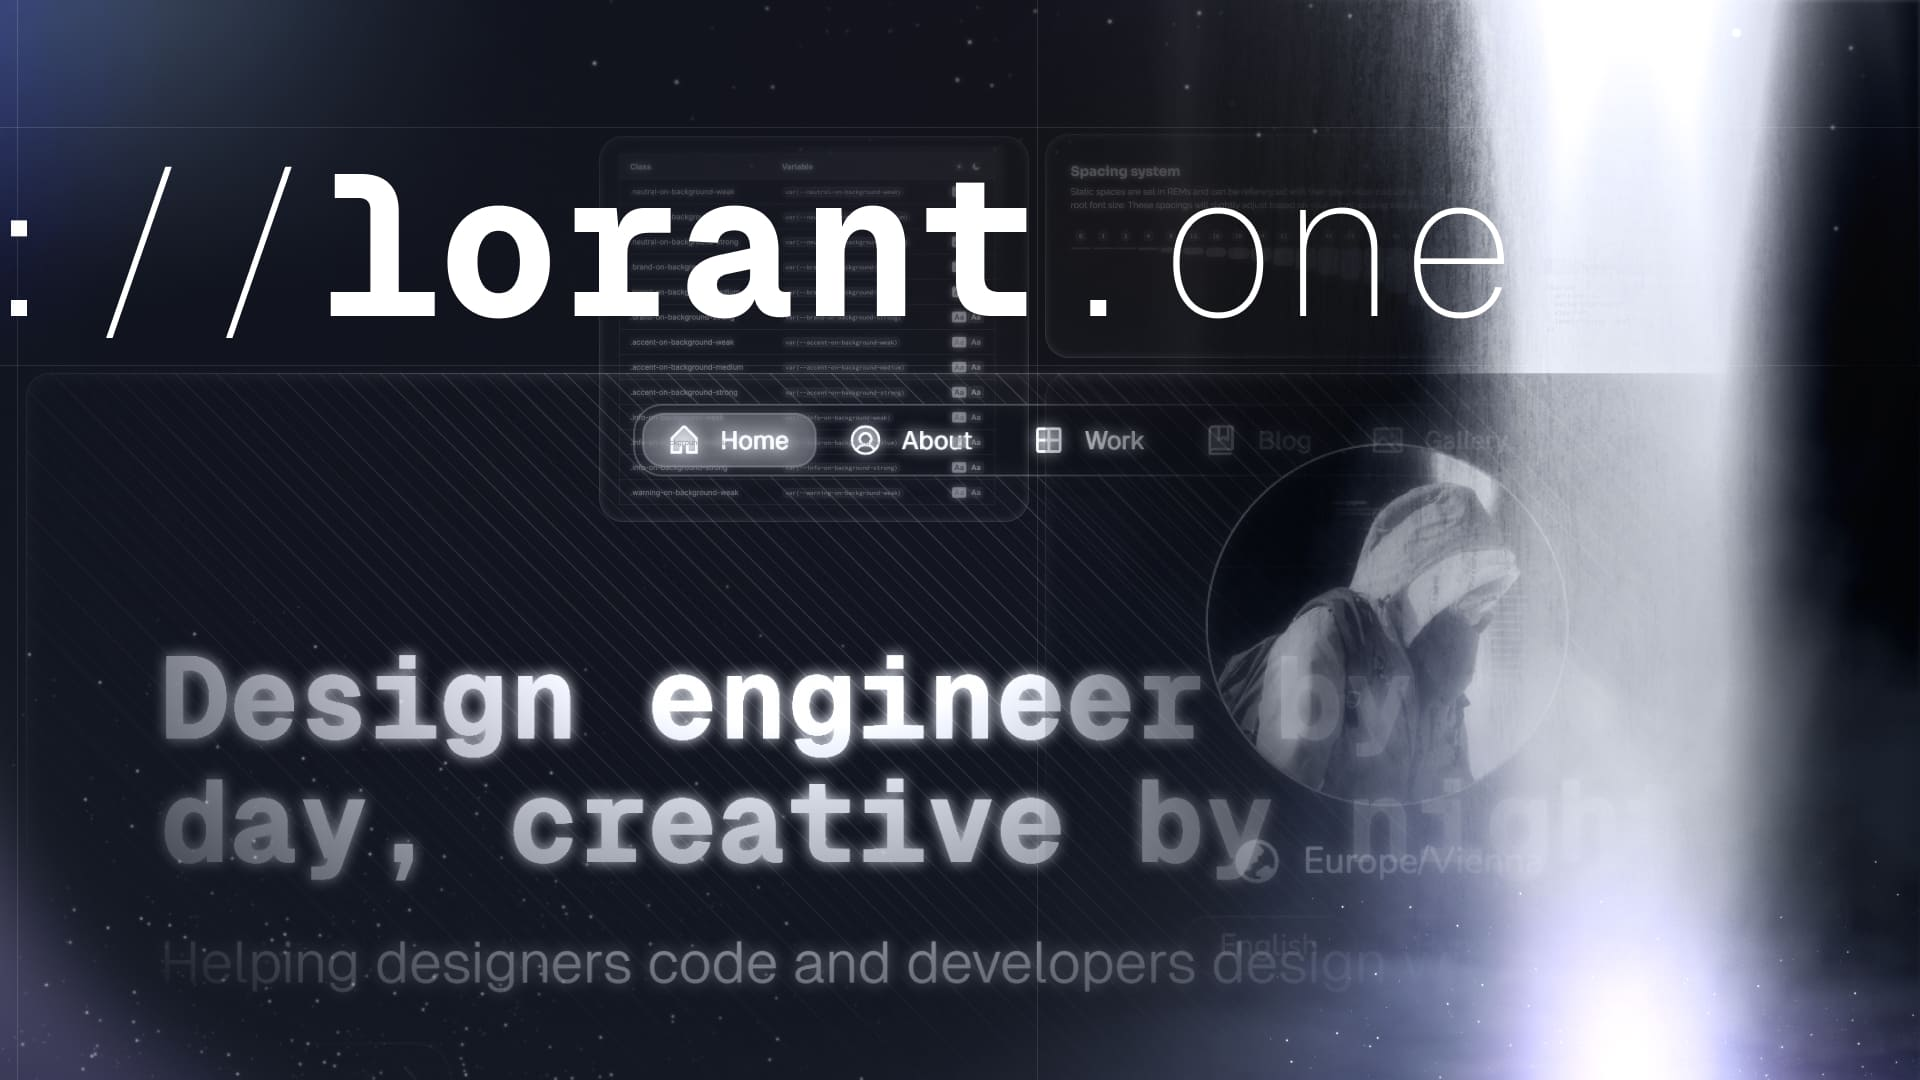
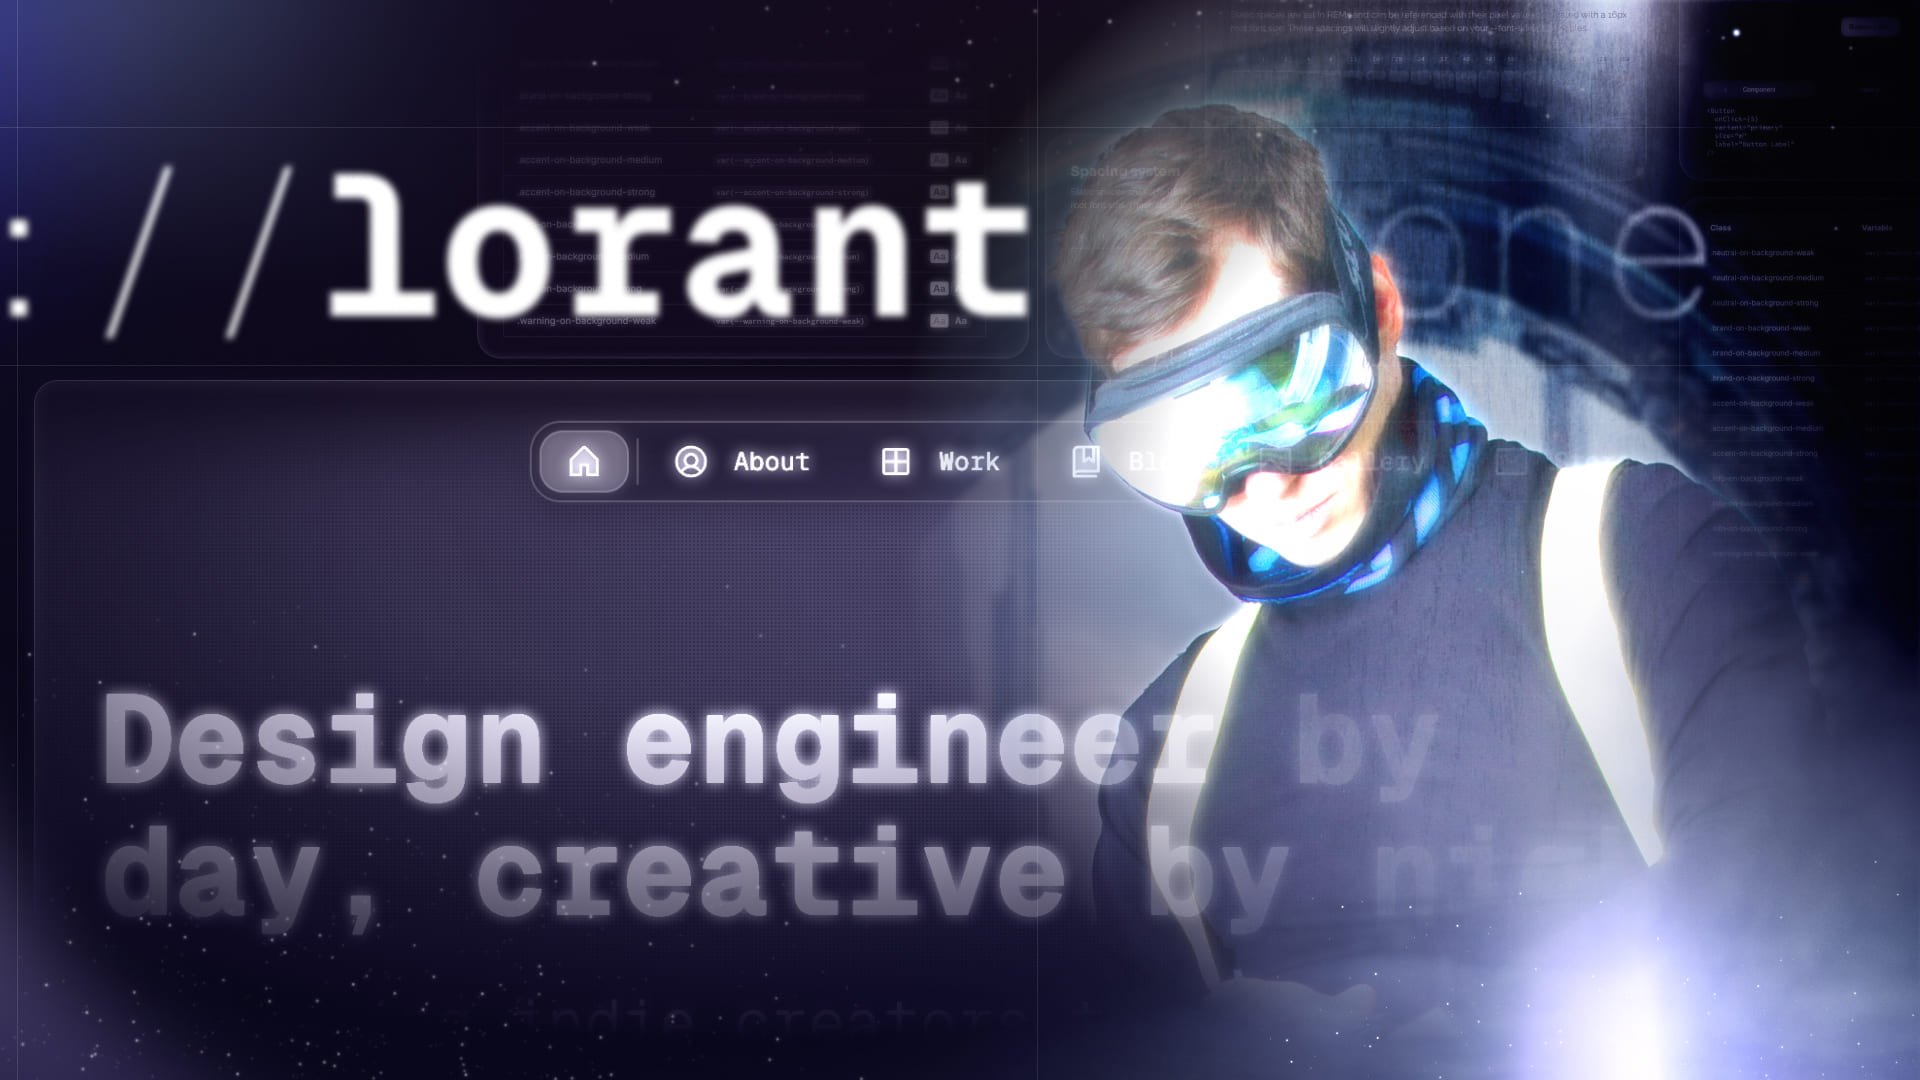
og update

diff --git a/src/components/Mailchimp.tsx b/src/components/Mailchimp.tsx
@@ -1,7 +1,7 @@
 "use client";
 
 import { mailchimp } from '@/app/resources'
-import { Button, Flex, Heading, Input, Text, Background, Column } from '@/once-ui/components';
+import { Button, Flex, Heading, Input, Text, Background, Column, Avatar } from '@/once-ui/components';
 import { useState } from 'react';
 
 function debounce<T extends (...args: any[]) => void>(func: T, delay: number): T {
@@ -96,6 +96,7 @@ export const Mailchimp = (
                     display: mailchimp.effects.lines.display,
                     opacity: mailchimp.effects.lines.opacity as any
                 }}/>
+            <Avatar position="relative" size="l" src="/images/avatar.jpg" marginBottom="24"/>
             <Heading style={{position: 'relative'}}
                 marginBottom="s"
                 variant="display-strong-xs">
